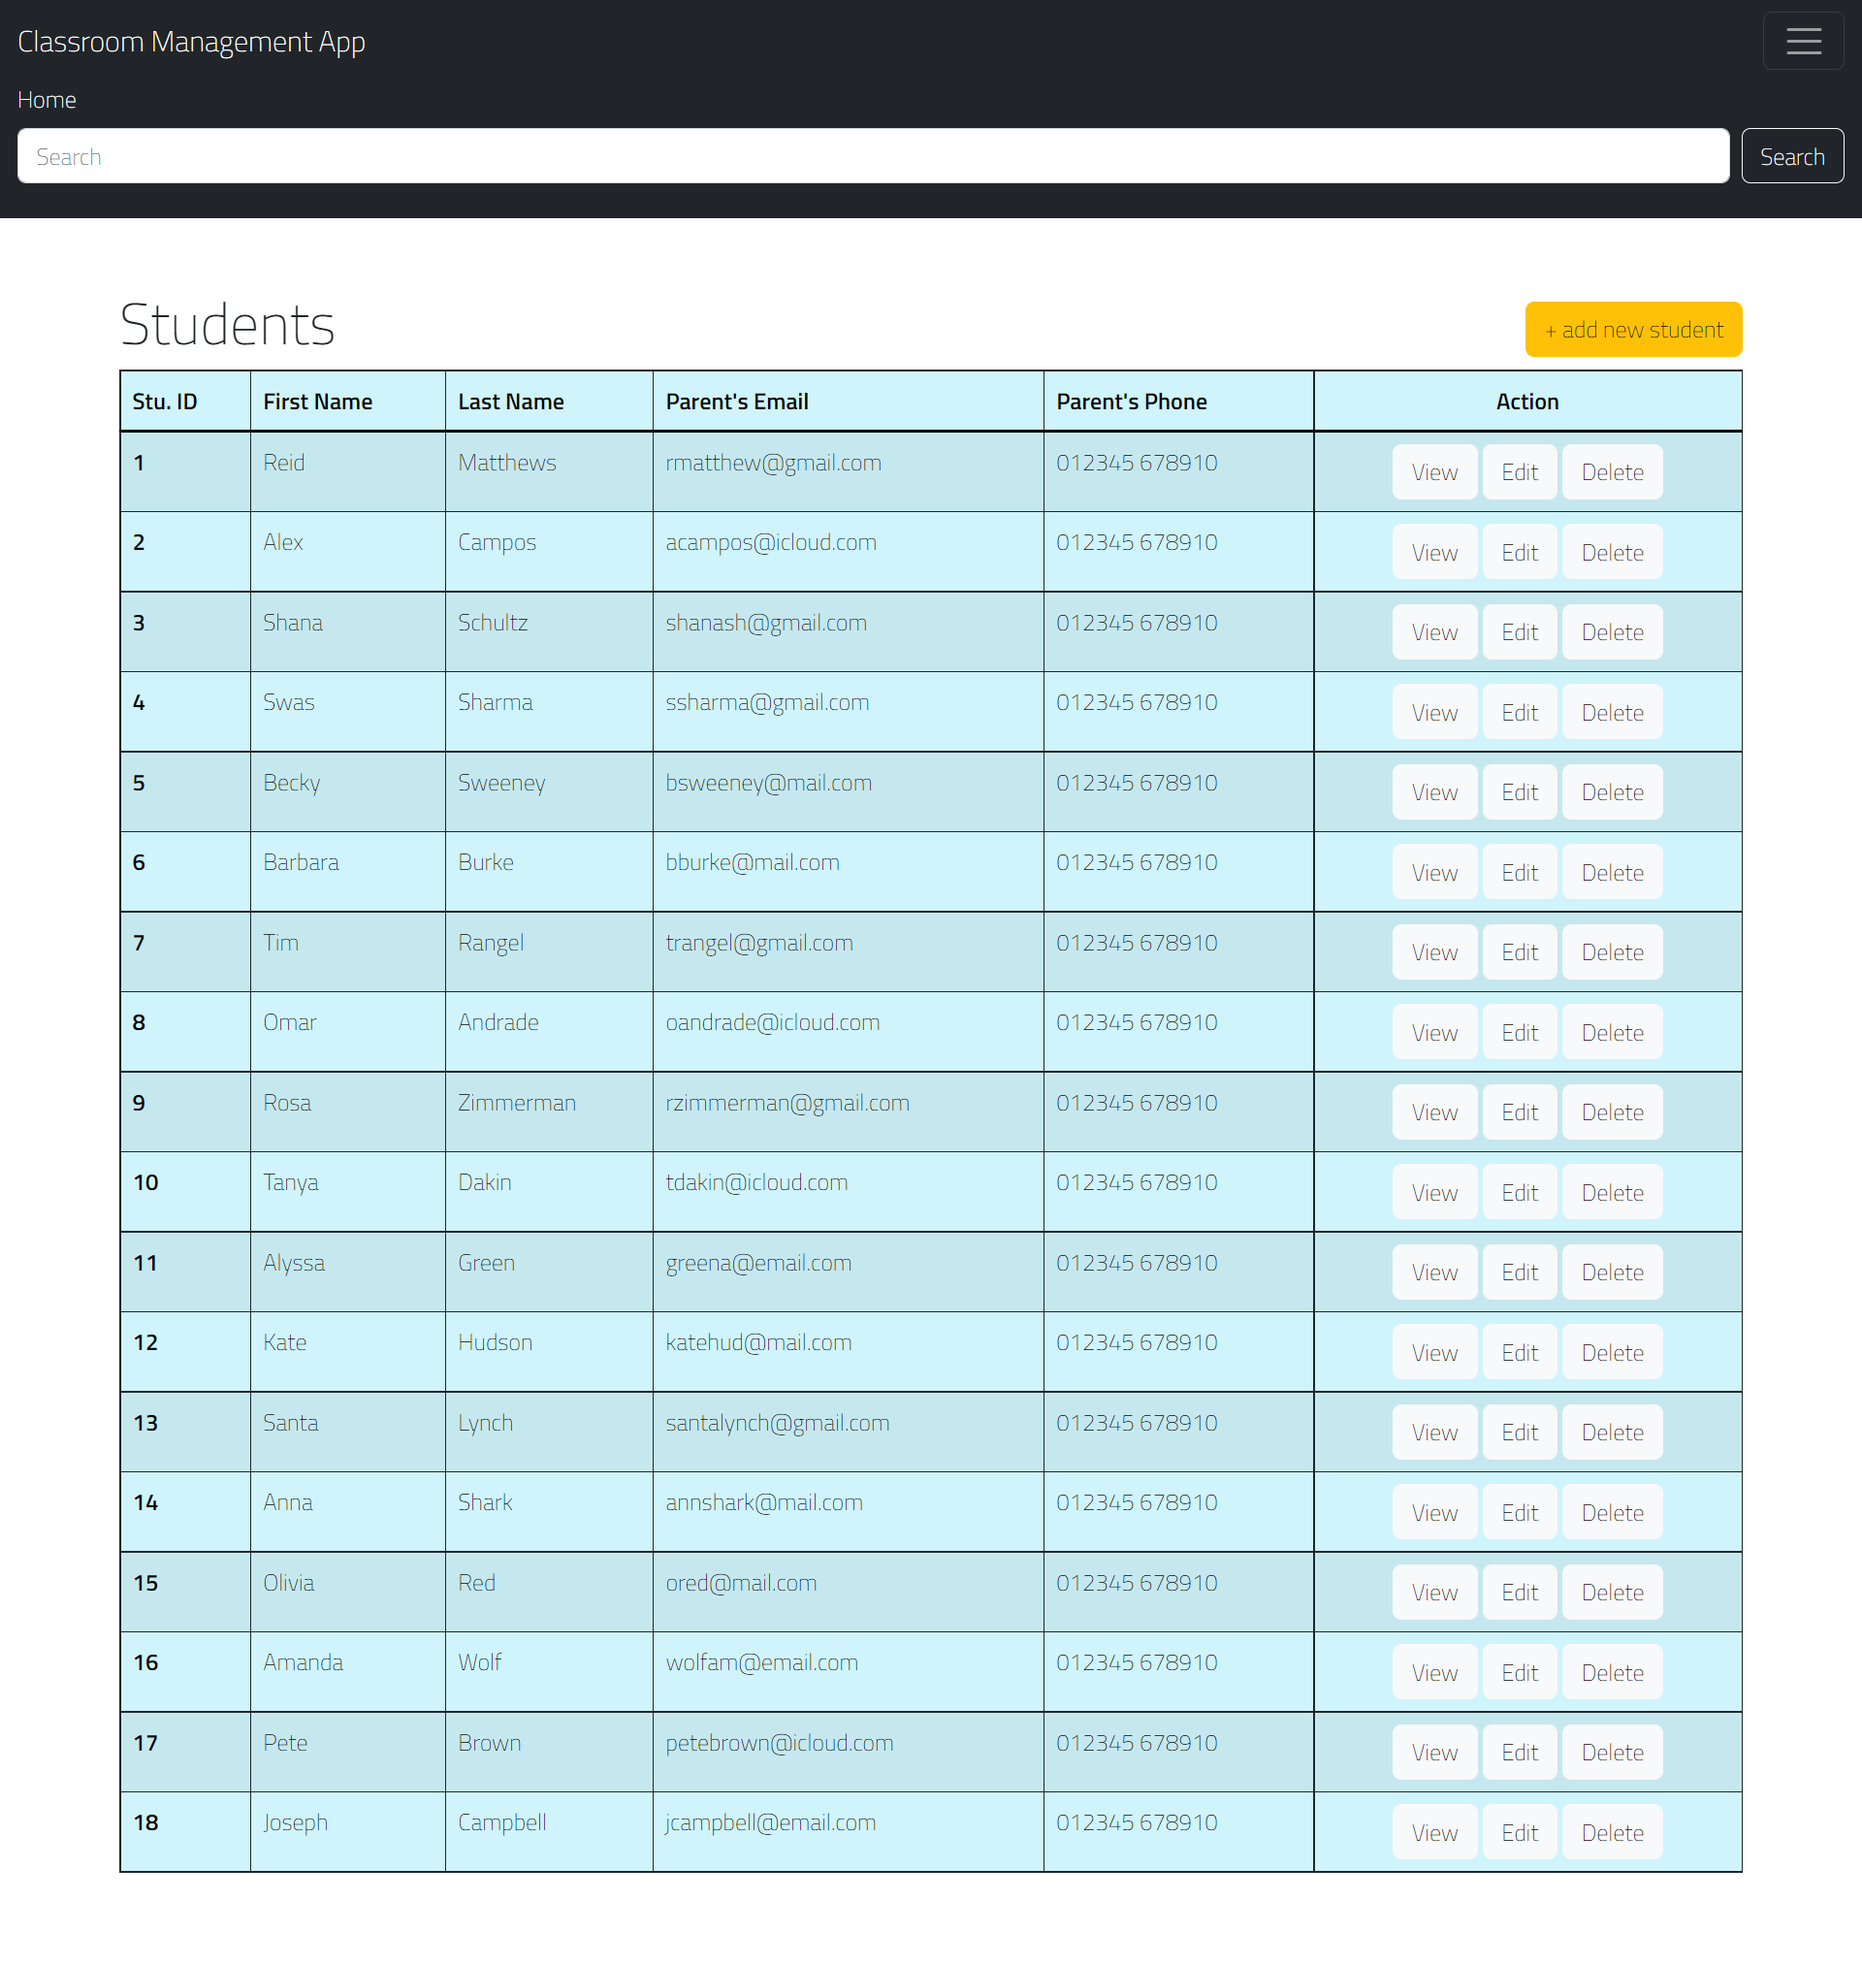
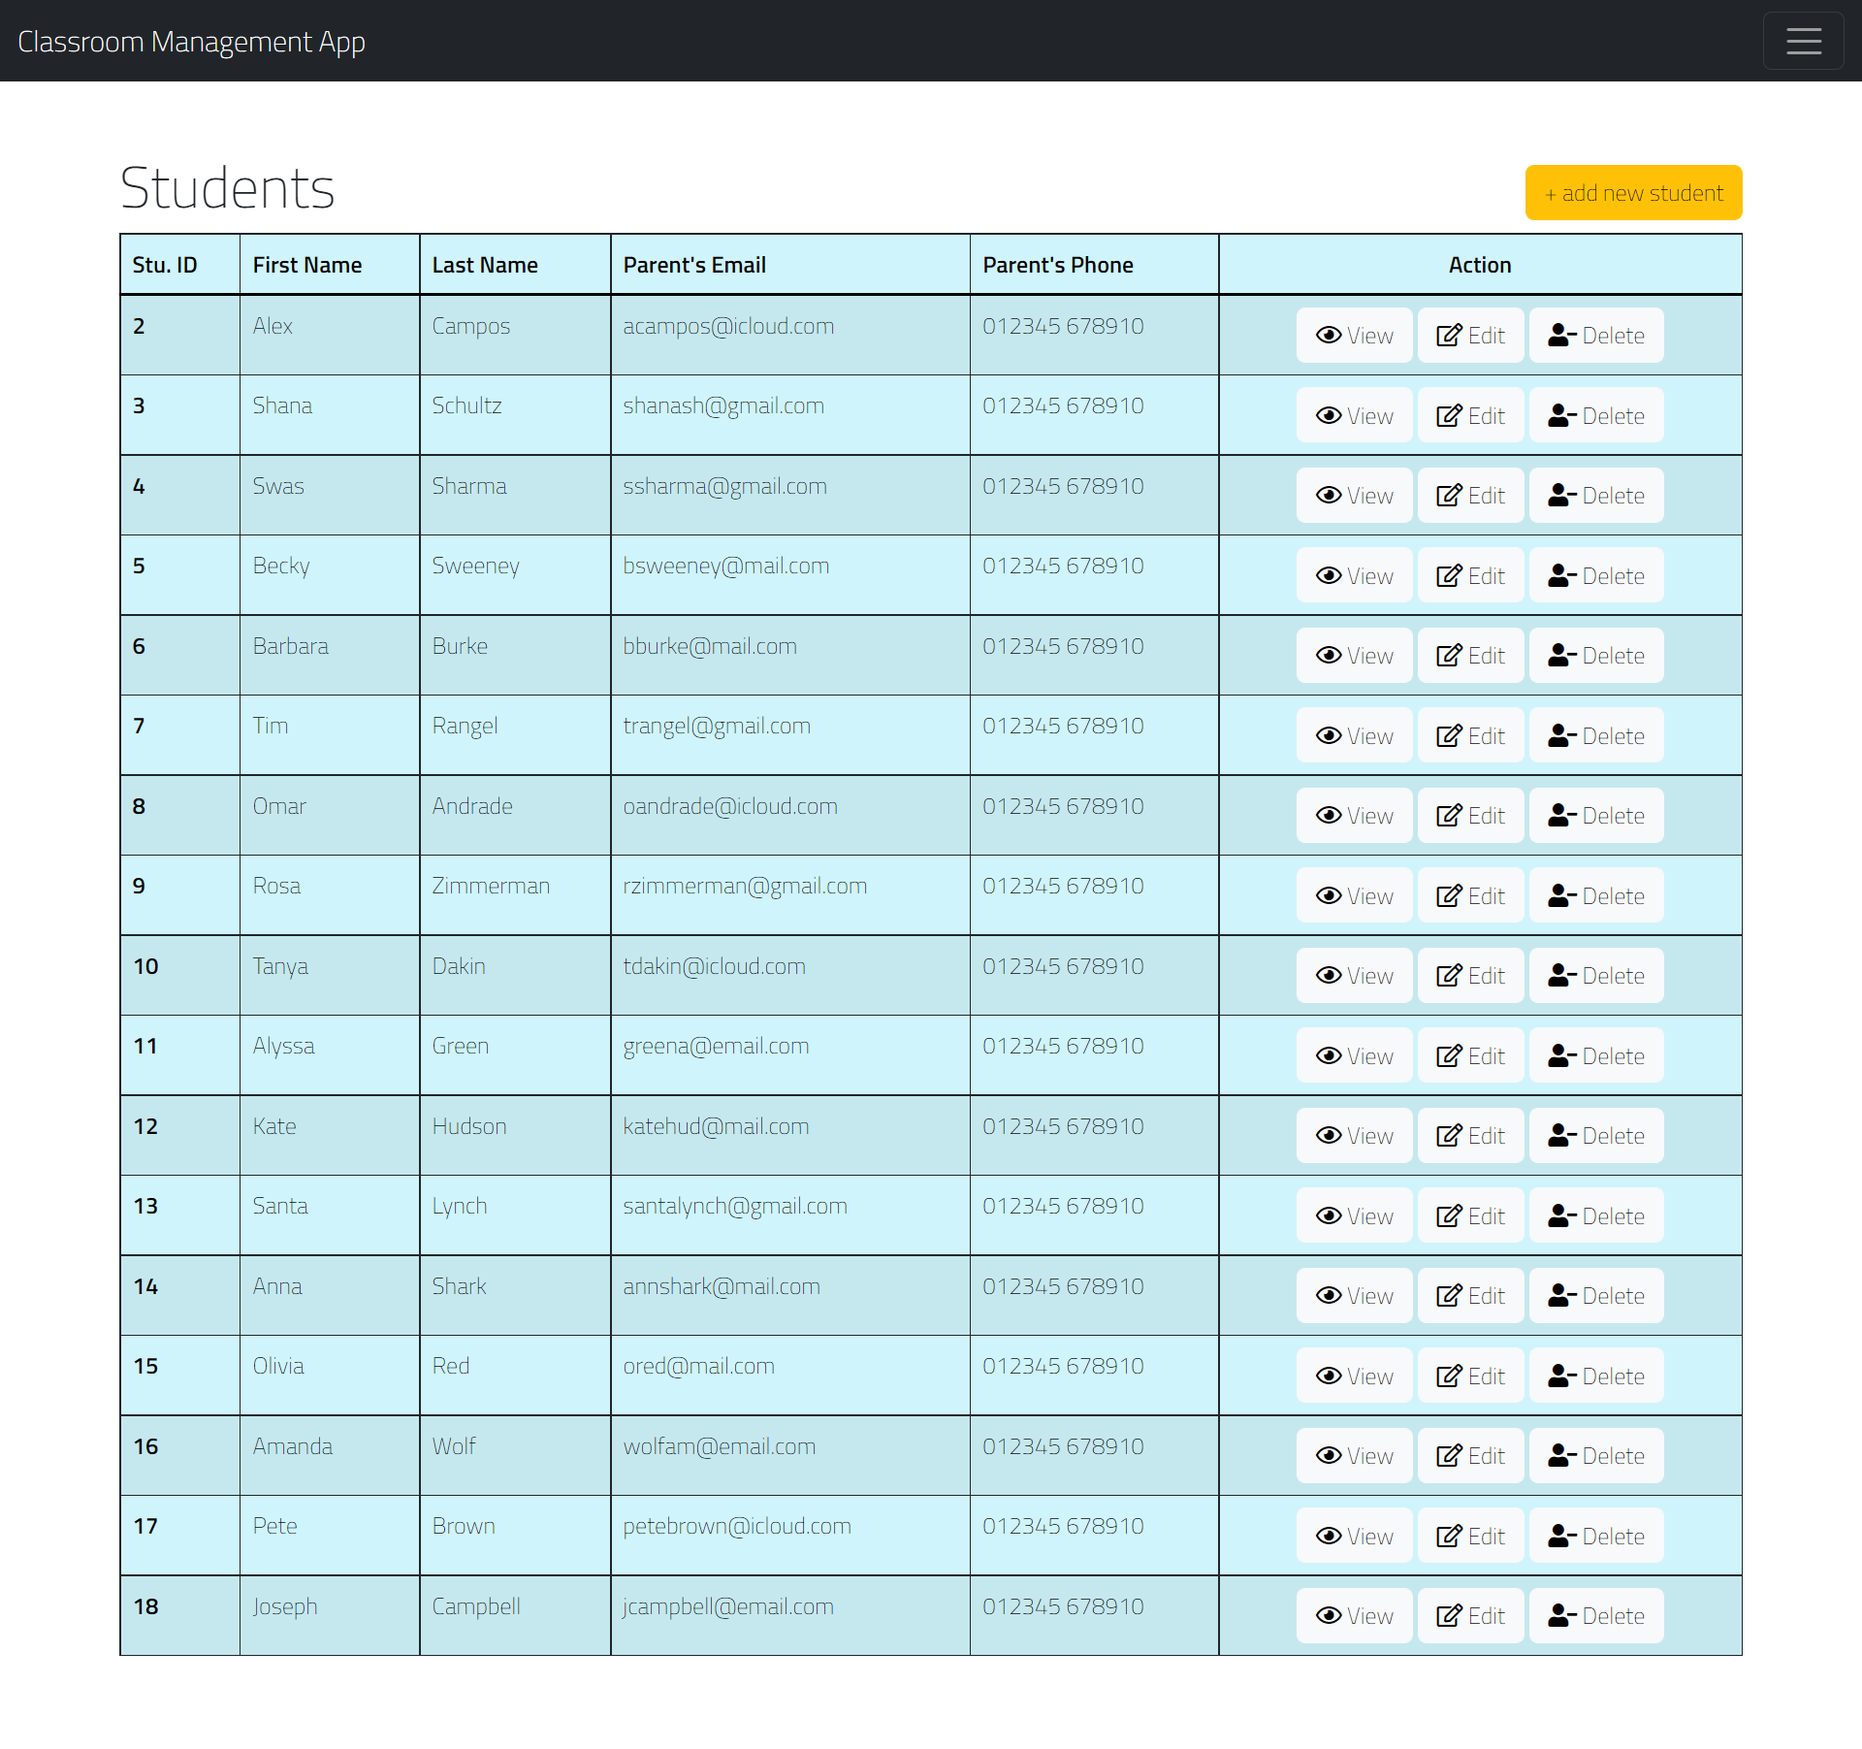
new demo screenshot

diff --git a/README.md b/README.md
@@ -34,7 +34,7 @@ Then I am able to generate a list of students with that name, or with that lette
 
 ## 📹Website Demo:
 
-![Classroom Management App](./public/img/classAppDemo.png)
+![Classroom Management App](./public/img/ClassAppDemo.png)
 
 ### 💻Heroku Link to the Website:
 
